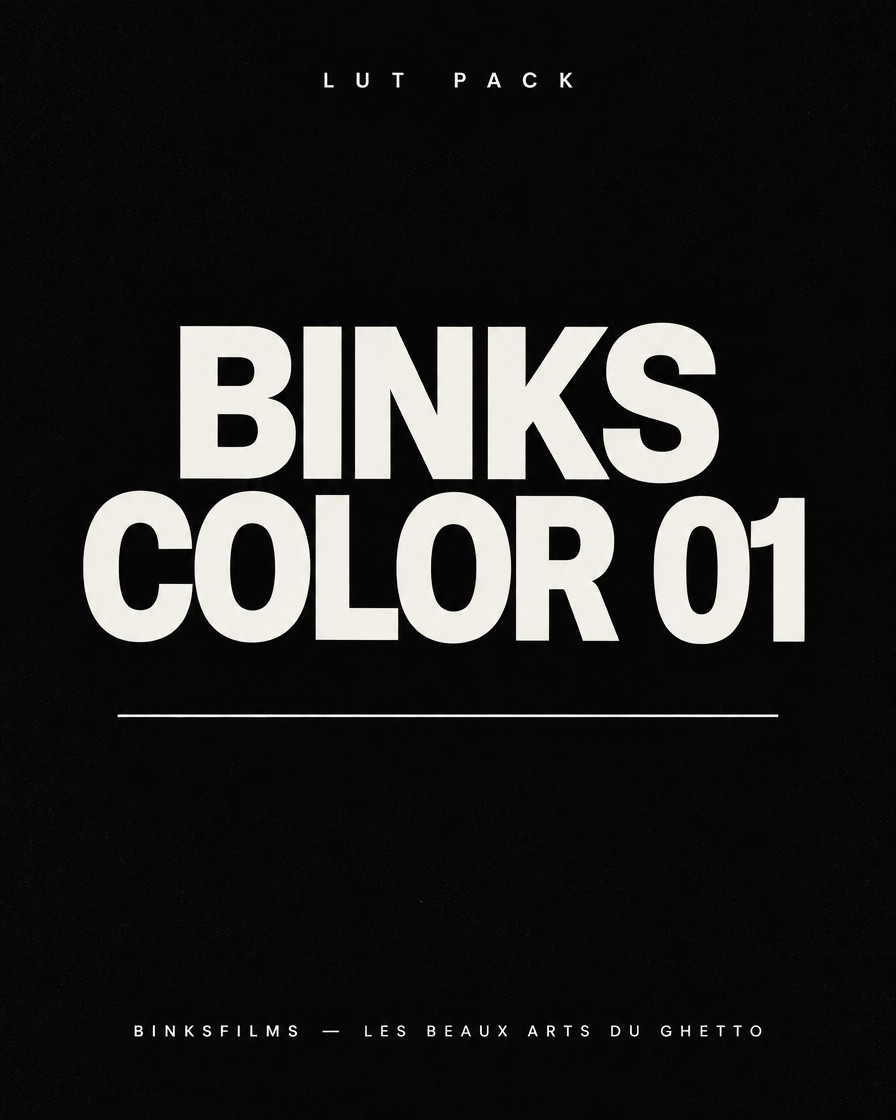
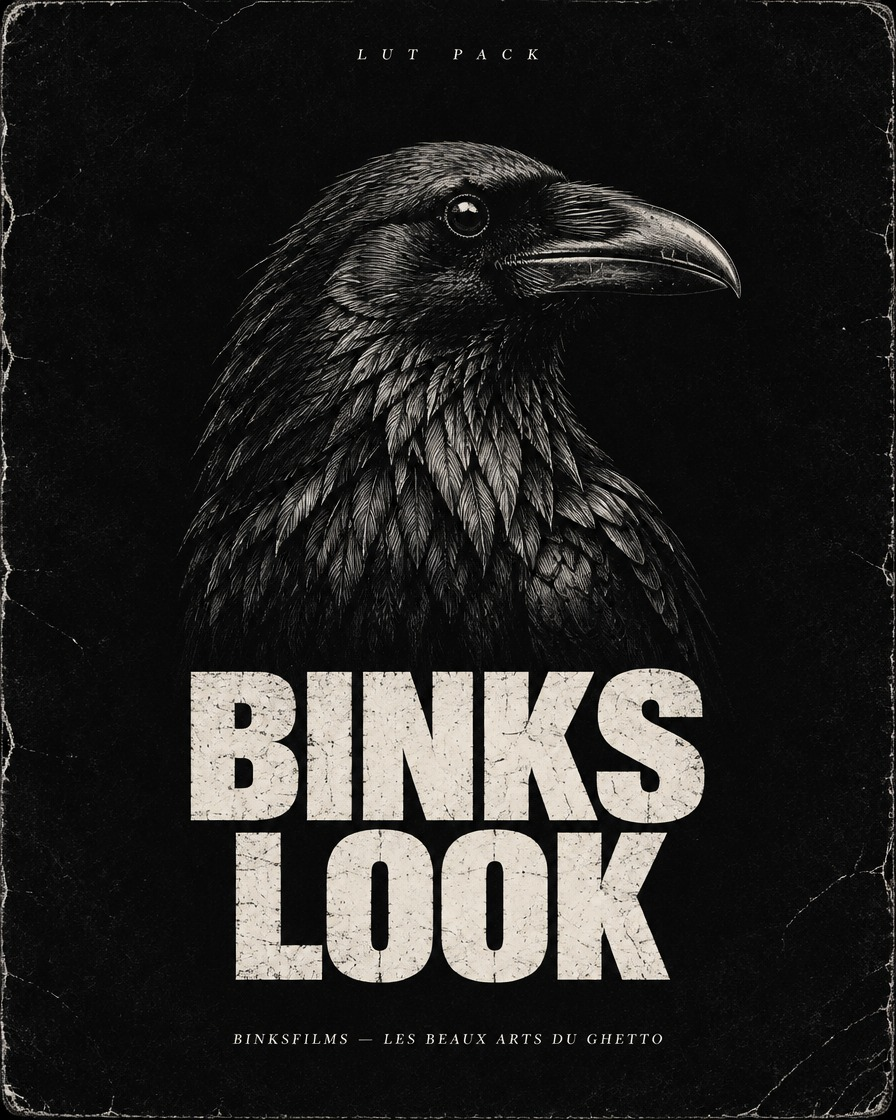
boutique: le packaging reprend le corbeau, BINKS LOOK
Nouvelle direction validee sur reference : face avant refaite (corbeau
grave, meme esprit que l'exemple fourni), tranche mise a jour avec le
nom qui revient a BINKS LOOK. La face arriere n'est plus generee par IA
mais composee en vrai a partir des cinq images du rideau (nuit,
exterieur, mariage x2, piscine) — la preuve du LUT plutot qu'un decor
invente pour l'occasion.

La video d'introduction du site (lune, corbeaux, nuages) tourne deja
en fond de la fiche : la coincidence avec le motif du corbeau est
bonne a garder telle quelle.

diff --git a/shop.js b/shop.js
@@ -85,7 +85,7 @@ window.SHOP_DATA = [
   },
   {
     slug: "binks-color",
-    nom: "BINKS COLOR 01",
+    nom: "BINKS LOOK",
     famille: "lut",
     phrase: "Les nuits qui tiennent, les peaux qui ne virent pas — étalonné sur mes propres tournages.",
     prix: 49,
@@ -94,7 +94,7 @@ window.SHOP_DATA = [
     visuel: "",
     boite: {
       avant: "images/shop-binks-color-boite-avant.jpg",
-      arriere: "images/shop-binks-color-boite-plain.jpg",
+      arriere: "images/shop-binks-color-boite-arriere.jpg",
       gauche: "images/shop-binks-color-boite-tranche.jpg",
       droite: "images/shop-binks-color-boite-tranche.jpg",
       dessus: "images/shop-binks-color-boite-plain.jpg",
